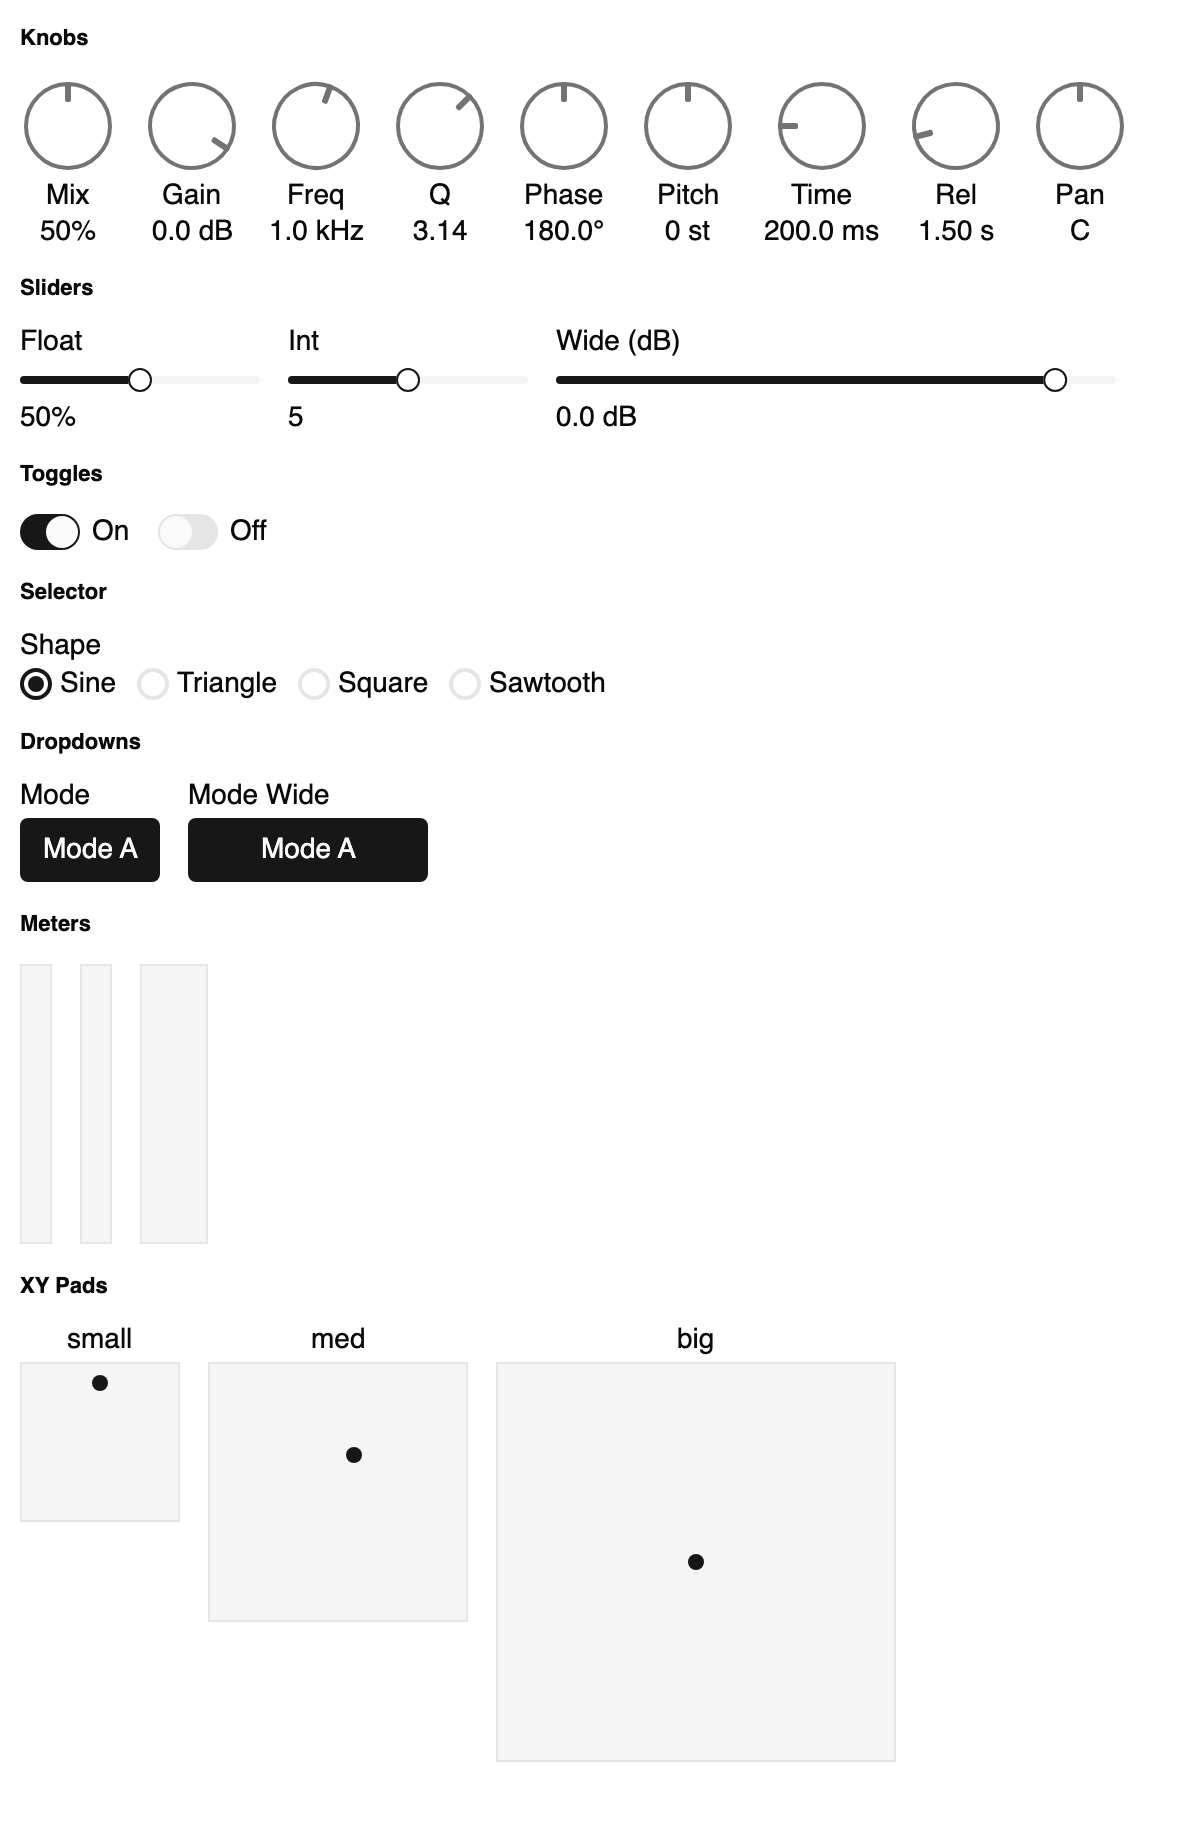
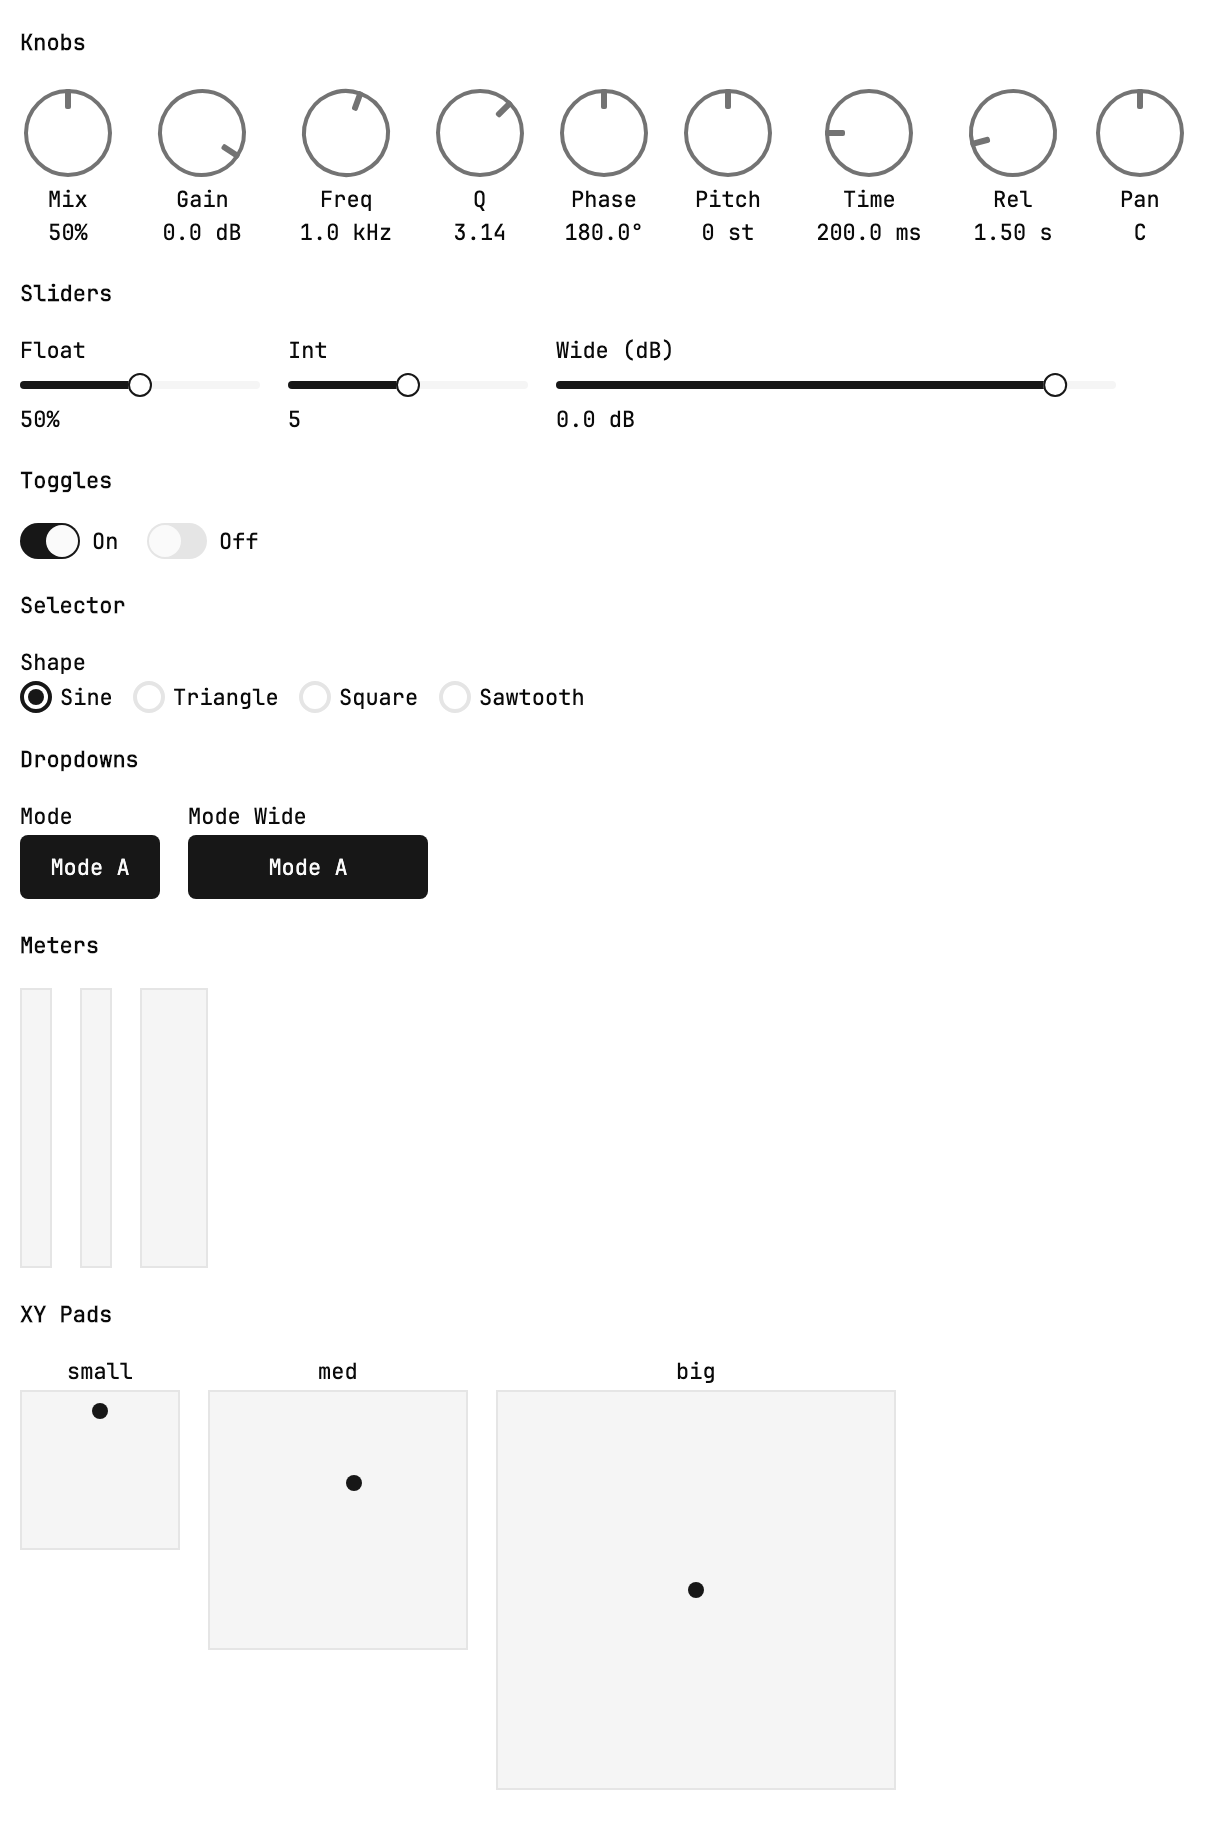
Apply jetbrains mono to vizia examples, consistency tweaks

diff --git a/crates/truce-vizia/src/widgets.rs b/crates/truce-vizia/src/widgets.rs
@@ -32,63 +32,7 @@ use crate::param_lens::ParamLens;
 /// Opt in via `ViziaEditor::with_stylesheet(BASE_CSS)`. Without it
 /// the knob renders with its needle outside the round body and the
 /// dropdown popup overflows / shows an arrow.
-pub const BASE_CSS: &str = r"
-.truce-knob .knob-head {
-    width: 44px;
-    height: 44px;
-    border-width: 2px;
-}
-.truce-knob .knob-tick {
-    width: 3px;
-    height: 10px;
-    corner-radius: 1px;
-}
-/* Level meter + XY pad: vizia's default Element has no background,
- * so without these the meter bars and the pad outline are invisible.
- * Colors resolve through vizia CSS variables (`--muted`, `--primary`,
- * `--destructive`, `--border`) so they follow whatever palette is
- * active - the default light theme picks up the standard vizia
- * neutrals; a plugin author who layers their own dark / branded
- * palette over the top inherits the matching variables. */
-.truce-meter {
-    background-color: var(--muted);
-    border-color: var(--border);
-    border-width: 1px;
-}
-/* Track is transparent so the container's `var(--muted)` body + 1px
- * `var(--border)` outline read through, matching the XY pad's frame.
- * The fill is the only opaque thing inside, so an idle meter looks
- * like an empty bordered slot. */
-.truce-meter-bar {
-    background-color: transparent;
-}
-.truce-meter-fill {
-    background-color: var(--primary);
-}
-.truce-meter-fill-clip {
-    background-color: var(--destructive);
-}
-.truce-xy-pad {
-    background-color: var(--muted);
-    border-color: var(--border);
-    border-width: 1px;
-}
-.truce-xy-pad-dot {
-    background-color: var(--primary);
-}
-popup arrow {
-    display: none;
-}
-popup {
-    width: auto;
-    min-width: auto;
-    height: auto;
-    padding: 0px;
-}
-popup button {
-    corner-radius: 0px;
-}
-";
+pub const BASE_CSS: &str = include_str!("base.css");
 
 /// Single labelled knob cell: knob on top, name label below, current
 /// formatted value at the bottom.
@@ -124,6 +68,15 @@ pub fn param_knob<P: Params + 'static>(
         let _ = value_signal.get();
         lens_for_display.format(id_u32)
     });
+    // Lock the value-label slot to fit the *widest* string this
+    // param can ever format to. Without this the cell width tracks
+    // the live value, so a continuous knob shrinks (e.g. "0.0 dB" ->
+    // "-60.0 dB" adds two chars) and pushes every cell to its right.
+    // Estimated in pixels from the char count at the BASE_CSS 11px
+    // monospace size; the small +pad keeps neighbour-touching cells
+    // from kissing when the longest string is rendered.
+    #[allow(clippy::cast_precision_loss)]
+    let value_slot_w = lens.widest_format_chars(id) as f32 * VALUE_CHAR_W_PX + VALUE_PAD_PX;
 
     VStack::new(cx, move |cx| {
         Knob::new(cx, initial, value_signal, false)
@@ -149,14 +102,26 @@ pub fn param_knob<P: Params + 'static>(
                 value_signal.set(snapped);
             });
         Label::new(cx, label_text);
-        Label::new(cx, display);
+        Label::new(cx, display)
+            .width(Pixels(value_slot_w))
+            .class("truce-knob-value");
     })
     .class("truce-knob")
     .width(Auto)
     .height(Auto)
-    .vertical_gap(Pixels(4.0))
+    .vertical_gap(Pixels(2.0))
     .alignment(Alignment::Center);
 }
+
+/// Per-character advance estimate for the [`BASE_CSS`] value-label
+/// font (`JetBrains` Mono / monospace fallback at 11px). 6.6px is
+/// the real advance; we use a hair more so a string that just fits
+/// at the estimate doesn't collide with a one-pixel rounding error
+/// and trigger the cell to grow.
+const VALUE_CHAR_W_PX: f32 = 7.0;
+/// Extra breathing room added on top of the char-count estimate so
+/// neighbouring cells don't visually kiss at the widest value.
+const VALUE_PAD_PX: f32 = 2.0;
 
 /// Single labelled slider cell: label on top, horizontal slider
 /// below, current formatted value underneath. `width` controls the
@@ -203,7 +168,7 @@ pub fn param_slider<P: Params + 'static>(
     .class("truce-slider")
     .width(Pixels(width))
     .height(Auto)
-    .vertical_gap(Pixels(4.0));
+    .vertical_gap(Pixels(2.0));
 }
 
 /// Single labelled toggle: a vizia `Switch` next to a label.
@@ -295,7 +260,7 @@ pub fn param_selector<P: Params + 'static>(
     .class("truce-selector")
     .width(Auto)
     .height(Auto)
-    .vertical_gap(Pixels(4.0));
+    .vertical_gap(Pixels(2.0));
 }
 
 /// Dropdown trigger that shows the current formatted value; popup
@@ -397,7 +362,7 @@ pub fn param_dropdown<P: Params + 'static>(
     .class("truce-dropdown")
     .width(Auto)
     .height(Auto)
-    .vertical_gap(Pixels(4.0));
+    .vertical_gap(Pixels(2.0));
 }
 
 /// Vertical level meter with one bar per supplied meter id.
@@ -546,7 +511,7 @@ pub fn param_xy_pad<P: Params + 'static>(
     .class("truce-xy-pad-cell")
     .width(Auto)
     .height(Auto)
-    .vertical_gap(Pixels(4.0))
+    .vertical_gap(Pixels(2.0))
     .alignment(Alignment::TopCenter);
 }
 

diff --git a/crates/truce-vizia/src/param_lens.rs b/crates/truce-vizia/src/param_lens.rs
@@ -161,6 +161,50 @@ impl<P: Params + 'static> ParamLens<P> {
             .map(std::num::NonZeroU32::get)
     }
 
+    /// Longest formatted value the param can ever display, in
+    /// characters. For discrete params iterates every step; for
+    /// continuous params samples eleven evenly-spaced normalized
+    /// points (good enough to catch suffix changes like
+    /// "999.0 Hz" -> "1.0 kHz" at scale boundaries).
+    ///
+    /// Widgets that don't want their cell width to jitter as the
+    /// value changes (`widgets::param_knob`) size the value-label
+    /// slot from this so the cell never grows past the floor set
+    /// here.
+    #[must_use]
+    pub fn widest_format_chars(&self, id: impl Into<u32>) -> usize {
+        let id_u32: u32 = id.into();
+        let Some(info) = self
+            .ctx
+            .params()
+            .param_infos()
+            .into_iter()
+            .find(|i| i.id == id_u32)
+        else {
+            return 0;
+        };
+        let sample_at = |normalized: f64| -> usize {
+            let plain = info.range.denormalize(normalized.clamp(0.0, 1.0));
+            self.ctx
+                .params()
+                .format_value(id_u32, plain)
+                .map_or(0, |s| s.chars().count())
+        };
+        if let Some(steps) = info.range.step_count() {
+            #[allow(clippy::cast_precision_loss)]
+            let denom = f64::from(steps.get());
+            (0..=steps.get())
+                .map(|s| sample_at(f64::from(s) / denom))
+                .max()
+                .unwrap_or(0)
+        } else {
+            (0..=10)
+                .map(|i| sample_at(f64::from(i) / 10.0))
+                .max()
+                .unwrap_or(0)
+        }
+    }
+
     /// Formatted display string for an *arbitrary* step on a discrete
     /// range, without mutating the live param. Used by
     /// `widgets::param_selector` / `param_dropdown` to label the

diff --git a/examples/truce-example-gain-vizia/src/lib.rs b/examples/truce-example-gain-vizia/src/lib.rs
@@ -15,8 +15,8 @@ use truce_vizia::{ParamLens, ViziaEditor};
 
 use GainParamsParamId as P;
 
-const WINDOW_W: u32 = 200;
-const WINDOW_H: u32 = 270;
+const WINDOW_W: u32 = 176;
+const WINDOW_H: u32 = 260;
 
 #[derive(Params)]
 pub struct GainParams {
@@ -104,12 +104,25 @@ fn gain_view(cx: &mut Context, lens: ParamLens<GainParams>) {
     HStack::new(cx, move |cx| {
         VStack::new(cx, move |cx| {
             HStack::new(cx, |cx| {
-                param_knob(cx, lens.clone(), P::Gain, "Gain");
-                param_knob(cx, lens.clone(), P::Pan, "Pan");
+                // Wrap each knob in a Stretch-width HStack so the two
+                // cells split the row equally. The row width matches
+                // the Pan / Gain pad below (130px) so the knob row
+                // aligns visually with the pad's left and right edges.
+                HStack::new(cx, |cx| {
+                    param_knob(cx, lens.clone(), P::Gain, "Gain");
+                })
+                .width(Stretch(1.0))
+                .height(Auto)
+                .alignment(Alignment::Center);
+                HStack::new(cx, |cx| {
+                    param_knob(cx, lens.clone(), P::Pan, "Pan");
+                })
+                .width(Stretch(1.0))
+                .height(Auto)
+                .alignment(Alignment::Center);
             })
-            .width(Auto)
-            .height(Auto)
-            .horizontal_gap(Pixels(10.0));
+            .width(Pixels(130.0))
+            .height(Auto);
             param_xy_pad(
                 cx,
                 lens.clone(),
@@ -122,11 +135,10 @@ fn gain_view(cx: &mut Context, lens: ParamLens<GainParams>) {
         })
         .width(Auto)
         .height(Auto)
-        .vertical_gap(Pixels(10.0));
-        // Meter height matches the left column total: knob cell
-        // (~80px) + 10px gap + xy-pad cell label + 4px gap + 130px
-        // pad surface. Sized so the meter's bottom edge lines up
-        // with the bottom of the Pan / Gain pad.
+        // Gap sized so knob cell (~80px) + gap + xy-pad cell (~146px)
+        // sums to the meter's 240px, lining up the pad's bottom edge
+        // with the meter's.
+        .vertical_gap(Pixels(13.0));
         level_meter(
             cx,
             lens_for_meter.clone(),

diff --git a/crates/truce-vizia/src/editor.rs b/crates/truce-vizia/src/editor.rs
@@ -20,6 +20,14 @@ use crate::platform::ParentWindow;
 /// widget tree.
 pub type SetupFn<P> = Arc<dyn Fn(&mut Context, ParamLens<P>) + Send + Sync>;
 
+/// Stylesheet applied when a plugin calls `with_font(...)`. Points
+/// the root entity at the registered font's family; vizia inherits
+/// `font-family` from root down to every descendant, so the
+/// universal `*` selector (which forces a restyle on every entity
+/// per tick and caused intermittent partial-paint artefacts) isn't
+/// needed.
+pub(crate) const JETBRAINS_MONO_FAMILY_CSS: &str = ":root { font-family: \"JetBrains Mono\"; }";
+
 pub struct ViziaEditor<P: Params + ?Sized> {
     params: Arc<P>,
     size: (u32, u32),
@@ -123,6 +131,15 @@ impl<P: Params + 'static> Editor for ViziaEditor<P> {
             // builds - vizia caches font shaping per family.
             if let Some(bytes) = font {
                 cx.add_font_mem(bytes);
+                // Vizia registers the font under whatever family name
+                // the TTF advertises but leaves `:root { font-family }`
+                // pointing at the system stack from its default
+                // theme. Override here so plugins that opt into
+                // `with_font(JETBRAINS_MONO)` actually render in
+                // JetBrains Mono. truce-font is the only font crate
+                // we ship and the only one `with_font` is documented
+                // to take, so the family name is fixed.
+                let _ = cx.add_stylesheet(JETBRAINS_MONO_FAMILY_CSS);
             }
             // Stylesheets are applied in the order they were added
             // via `with_stylesheet`. Plugins opt into widget styling

diff --git a/crates/truce-vizia/src/screenshot.rs b/crates/truce-vizia/src/screenshot.rs
@@ -85,6 +85,9 @@ pub(crate) fn render_with_state<P: Params + 'static>(
         let inner = backend.context();
         if let Some(bytes) = font {
             inner.add_font_mem(bytes);
+            // Override vizia's default `font-family` so registered
+            // bytes actually render. See `editor::JETBRAINS_MONO_FAMILY_CSS`.
+            let _ = inner.add_stylesheet(crate::editor::JETBRAINS_MONO_FAMILY_CSS);
         }
         // Match `ViziaEditor::open`: every user-supplied stylesheet
         // goes in, in the order it was added via `with_stylesheet`.

diff --git a/examples/truce-example-gui-zoo-vizia/src/lib.rs b/examples/truce-example-gui-zoo-vizia/src/lib.rs
@@ -19,7 +19,7 @@ use truce_vizia::{ParamLens, ViziaEditor};
 
 use ZooParamsParamId as P;
 
-const WINDOW_W: u32 = 600;
+const WINDOW_W: u32 = 604;
 const WINDOW_H: u32 = 920;
 
 // Zoo-local layout CSS. Lives in the example because it's